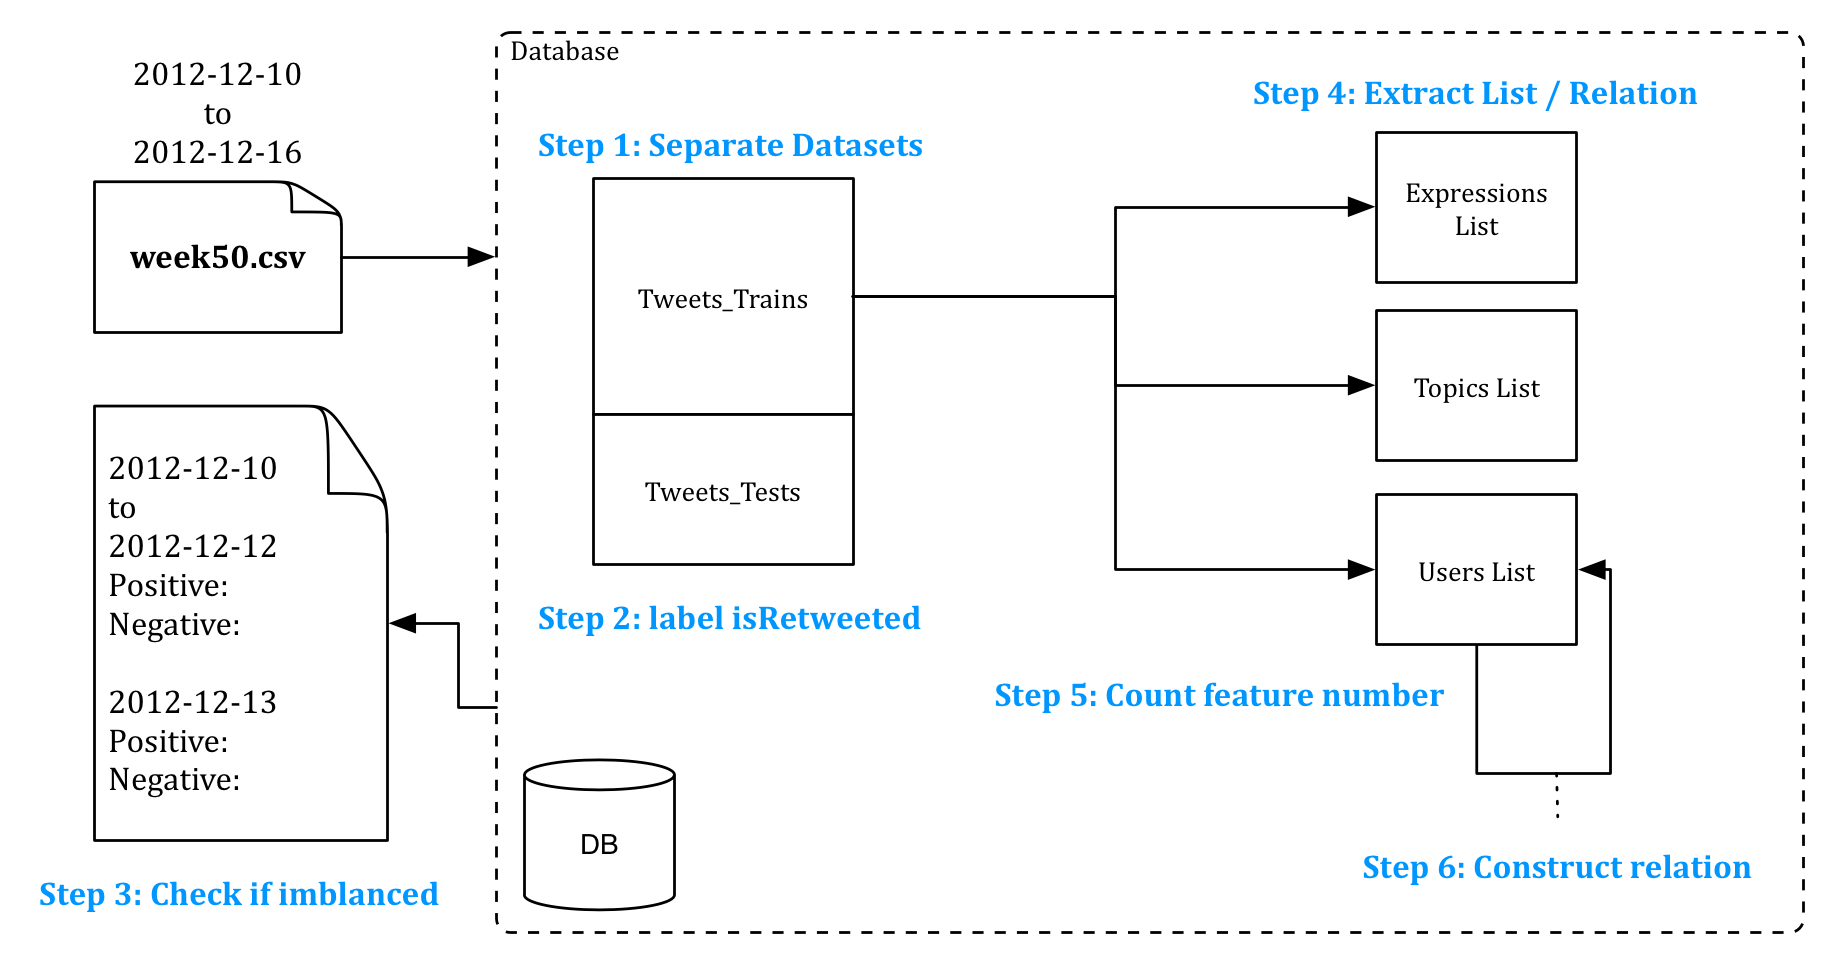
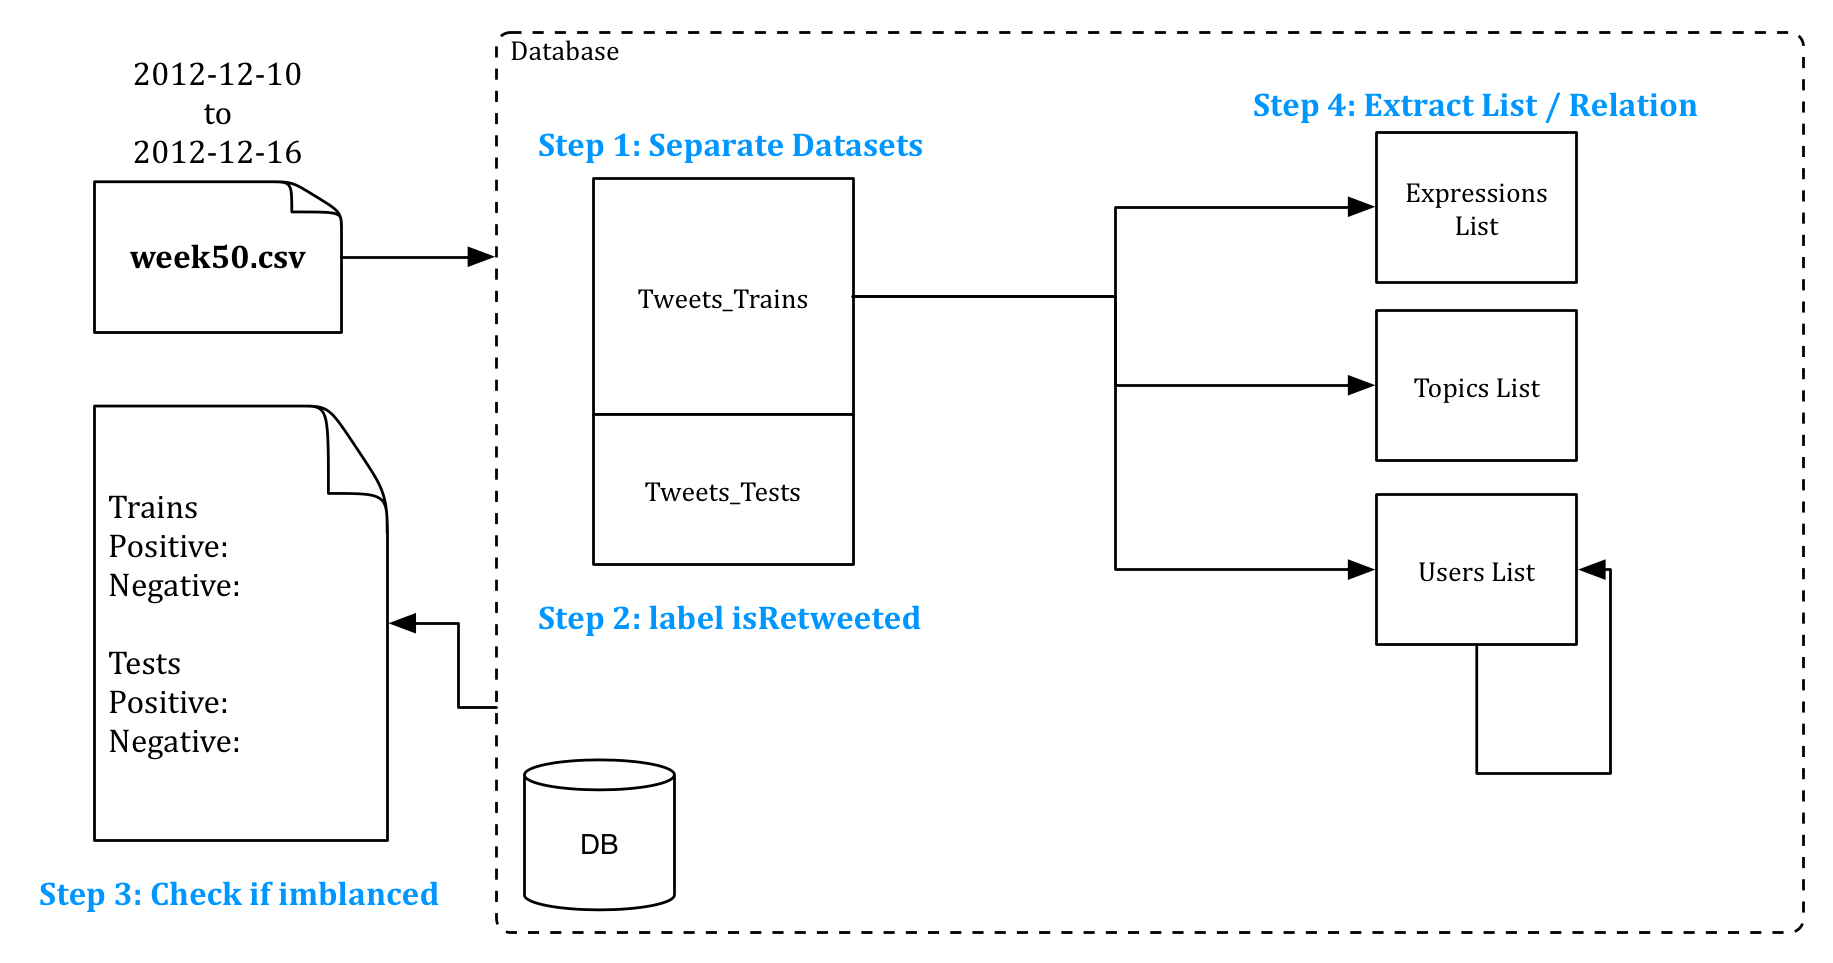
Update Readme & comment

diff --git a/preprocess/dev/es6/2_isRetweeted.js b/preprocess/dev/es6/2_isRetweeted.js
@@ -13,7 +13,7 @@ const Tweets_Tests = $sequelize.Tweets_Tests;
 
 /**
 * 1. 是否被轉錄過 isRetweeted
-* 1. 計算 retweeted_counts  被轉錄多少次
+* 2. 計算 retweeted_counts 被轉錄多少次
 *
 * @author Michael Hsu
 */
@@ -51,6 +51,11 @@ Promise.resolve()
 .then(()=>{
   console.log(">> Start async function processing ...");
 })
+
+// ============================================
+// Testing Datasets
+// ============================================
+
 .then(()=>{
   // 1. 找出所有 retweeted_status_mid
   return $sequelize.sequelize.query($sql.isRetweetedTests, null, { raw: true } );

diff --git a/preprocess/dev/es6/1_separateDataset.js b/preprocess/dev/es6/1_separateDataset.js
@@ -26,9 +26,9 @@ lr.on("line", (line) => {
   let [ mid, retweeted_status_mid, uid, retweeted_uid, source, image, text = "", geo, created_at, deleted_last_seen, permission_denied ] = line.split(",");
 
   /**
-  * 初始化 Tweets_Train / Tweets_Test 列表
+  * 初始化 Training / Testing Datasets 列表
   *
-  * @param  line
+  * @param  each line of csv file
   *
   * @return {int} text_length 
   * @return {int} mention_counts

diff --git a/preprocess/dev/es6/4_list.js b/preprocess/dev/es6/4_list.js
@@ -27,6 +27,9 @@ const Relation_Users_Users = $sequelize.Relation_Users_Users;
 * 5. 計算 retweeted_counts  被人轉發數量
 * 6. 注意，這邊的數量有可能會跟 Tweets 算得不一樣，應為有些沒有 content
 * 7. 計算 mentioned_counts  被人提及多少次
+* 8. 建構 Relation of retweet behavior
+* 9. 建構 Relation of mention behavior
+*
 * @author Michael Hsu
 */
 

diff --git a/preprocess/README.md b/preprocess/README.md
@@ -35,6 +35,7 @@ npm run db
 
 ## Step 1: Separate Datasets
 
+- 初始化 Training / Testing Datasets 列表
 - Choose separate date: 
 
 ```
@@ -52,7 +53,7 @@ time node --max-old-space-size=12192 dist/es6/1_separateDataset.js data/week50.c
 ## Step 2: isRetweeted
 
 1. 是否被轉錄過 isRetweeted
-1. 計算 retweeted_counts  被轉錄多少次
+2. 計算 retweeted_counts 被轉錄多少次
 
 ```
 npm run 2
@@ -82,13 +83,15 @@ Negative:
 2. 初始化 Topics 列表
 3. 建構 Relation between User and Tweet
 4. 初始化 Users 列表
-1. 初始化 Users 列表
 2. 計算 tweet_counts   自己的文章數量（原創文章）
 3. 計算 retweet_counts 自己轉錄過多少文章
 4. 計算 mention_counts 自己提到多少人
 5. 計算 retweeted_counts  被人轉發數量
 6. 注意，這邊的數量有可能會跟 Tweets 算得不一樣，應為有些沒有 content
 7. 計算 mentioned_counts  被人提及多少次
+8. 建構 Relation of retweet behavior
+9. 建構 Relation of mention behavior
+
 ```
 npm run 4
 ```
